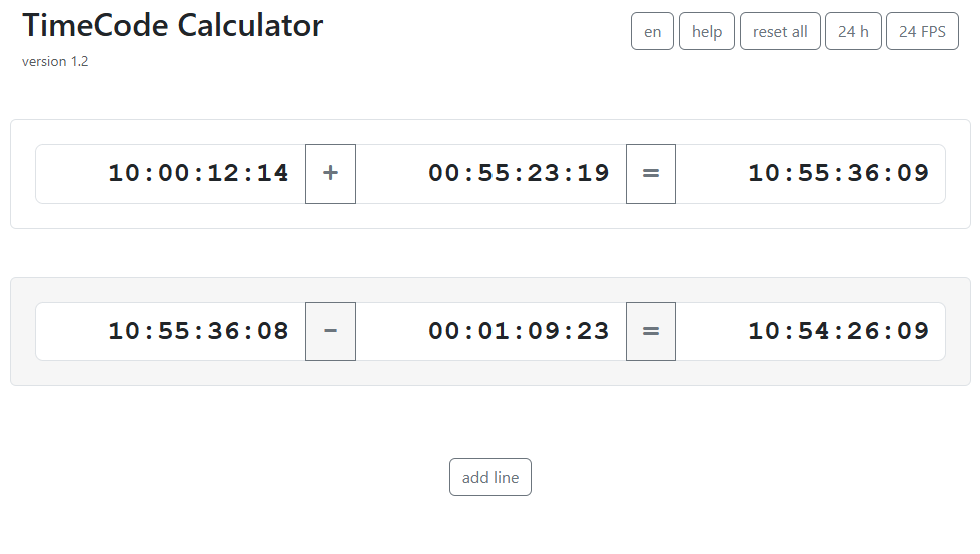
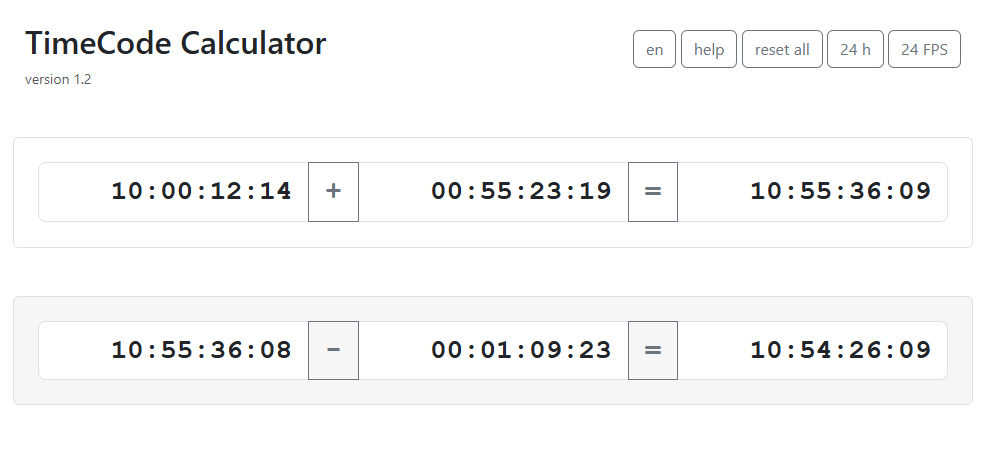
updated metadata

diff --git a/index.html b/index.html
@@ -1,8 +1,18 @@
 <!DOCTYPE html>
 <html lang="de">
 <head>
-    <meta charset="UTF-8">
-    <title>Redirect</title>
+	<meta charset="UTF-8">
+	<meta name="viewport" content="width=device-width, initial-scale=1">
+	<meta name="description" content="smart web-based calculator for video production timecodes">
+	<meta name="twitter:card" content="summary_large_image">
+	<meta property="og:title" content="TimeCode Calculator">
+	<meta property="og:description" content="smart web-based calculator for video production timecodes">
+	<meta property="og:image" content="https://d9sde.github.io/timecode-calculator/assets/preview-image.png"> <!-- 2zu1, 1200x630 (min: 300x157) -->
+	<meta property="og:url" content="https://d9sde.github.io/timecode-calculator/">
+	<meta property="og:type" content="website">
+	
+	<title>TimeCode Calculator</title>	
+
     <script>
         // redirect depending on language
         (function() {

diff --git a/index_de.html b/index_de.html
@@ -8,7 +8,7 @@
 	<meta property="og:title" content="TimeCode-Rechner">
 	<meta property="og:description" content="smarter browserbasierter Rechner für Video-Timecodes">
 	<meta property="og:image" content="https://d9sde.github.io/timecode-calculator/assets/preview-image.png"> <!-- 2zu1, 1200x630 (min: 300x157) -->
-	<meta property="og:url" content="https://d9sde.github.io/timecode-calculator/">
+	<meta property="og:url" content="https://d9sde.github.io/timecode-calculator/index_de.html">
 	<meta property="og:type" content="website">
 	
 	<title>TimeCode-Rechner</title>

diff --git a/index_en.html b/index_en.html
@@ -8,7 +8,7 @@
 	<meta property="og:title" content="TimeCode Calculator">
 	<meta property="og:description" content="smart web-based calculator for video production timecodes">
 	<meta property="og:image" content="https://d9sde.github.io/timecode-calculator/assets/preview-image.png"> <!-- 2zu1, 1200x630 (min: 300x157) -->
-	<meta property="og:url" content="https://d9sde.github.io/timecode-calculator/">
+	<meta property="og:url" content="https://d9sde.github.io/timecode-calculator/index_en.html">
 	<meta property="og:type" content="website">
 	
 	<title>TimeCode Calculator</title>